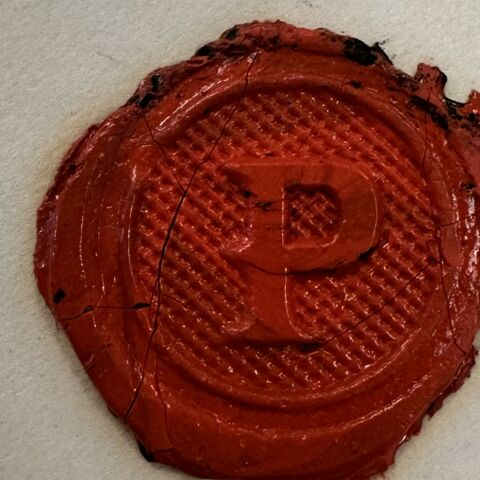
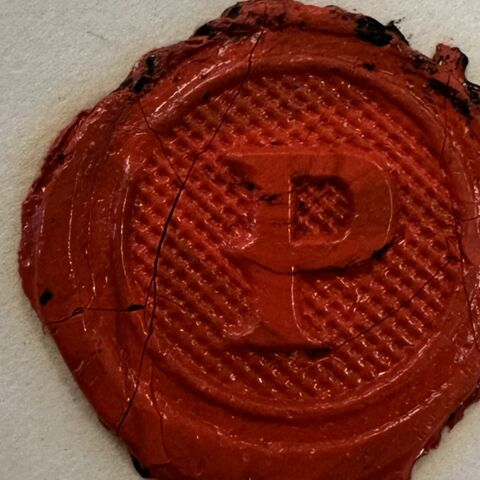
peirce modal: clean transparent signature, tighter seal, copy fix
- Signature: re-crop wider (full "Peirce", no clip) and key out the cream paper
  to a transparent PNG via Pillow, so it floats on the modal instead of sitting
  in a gray box.
- Seal: tighter crop so the wax fills the circle (less paper halo).
- Copy: "these are his manuscripts" -> "some of his manuscripts".

diff --git a/public/peirce/index.html b/public/peirce/index.html
@@ -74,8 +74,7 @@
     box-shadow:0 1px 6px rgba(0,0,0,.28);margin-bottom:14px}
   .card h1{font-family:var(--serif);font-size:21px;font-weight:600;margin:0 0 12px;letter-spacing:.01em}
   .card p{font-family:var(--serif);font-size:14.5px;line-height:1.62;color:#333;margin:0 0 18px;text-align:left}
-  .card .sig{height:52px;width:auto;margin-bottom:20px;
-    filter:grayscale(1) brightness(1.07) contrast(1.5);mix-blend-mode:multiply}
+  .card .sig{height:44px;width:auto;margin-bottom:20px}
   .card button{font-size:14px;padding:8px 22px}
   .about{padding:5px 9px;color:var(--muted)}
 </style>
@@ -85,8 +84,8 @@
   <div class="card">
     <img class="seal" src="/peirce/seal.jpg" alt="Peirce's red wax seal, embossed P">
     <h1>The Manuscripts of C. S. Peirce</h1>
-    <p>Charles Sanders Peirce (1839–1914) — logician, scientist, the founder of pragmatism — left some hundred thousand pages unpublished at his death. These are his manuscripts at Harvard's Houghton Library, hosted on the Internet Archive in the public domain, shown here with machine-assisted draft transcriptions still under correction. The hand is his, and so are the wax seal above and the signature below.</p>
-    <img class="sig" src="/peirce/signature.jpg" alt="Signature of Charles S. Peirce">
+    <p>Charles Sanders Peirce (1839–1914) — logician, scientist, the founder of pragmatism — left some hundred thousand pages unpublished at his death. These are some of his manuscripts at Harvard's Houghton Library, hosted on the Internet Archive in the public domain, shown here with machine-assisted draft transcriptions still under correction. The hand is his, and so are the wax seal above and the signature below.</p>
+    <img class="sig" src="/peirce/signature.png" alt="Signature of Charles S. Peirce">
     <div><button id="enter">Enter ›</button></div>
   </div>
 </div>